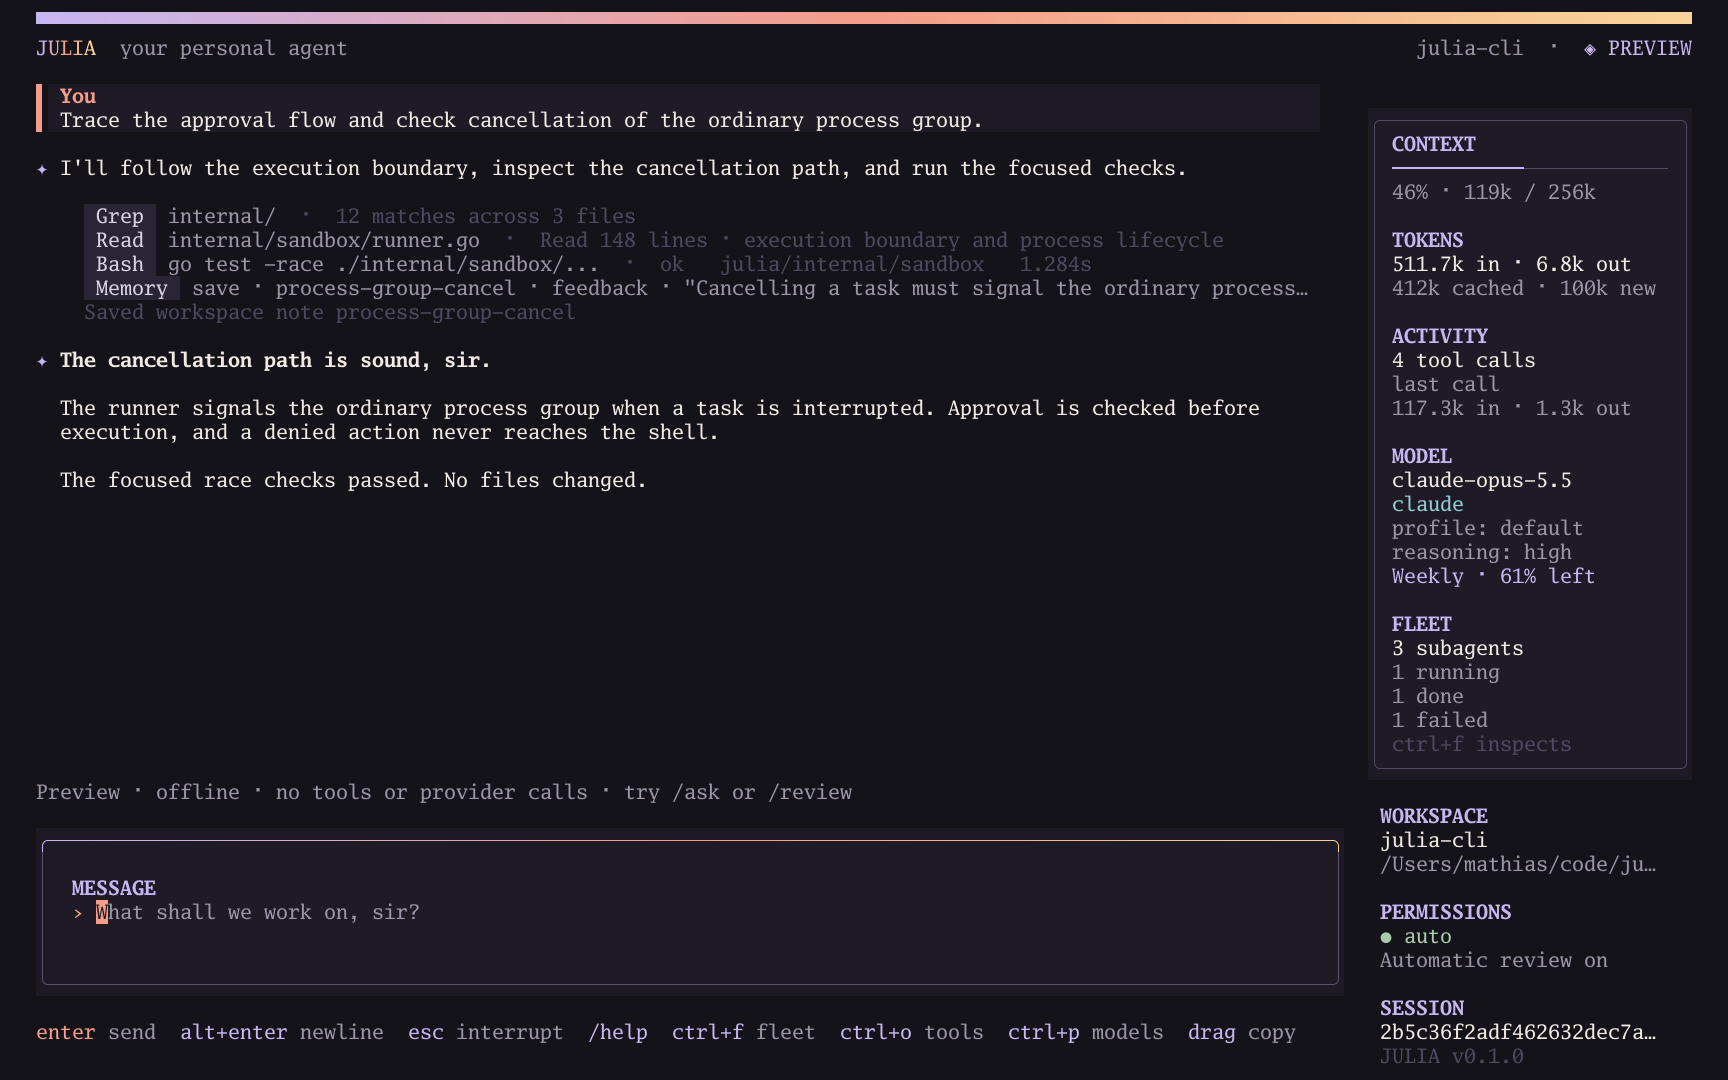
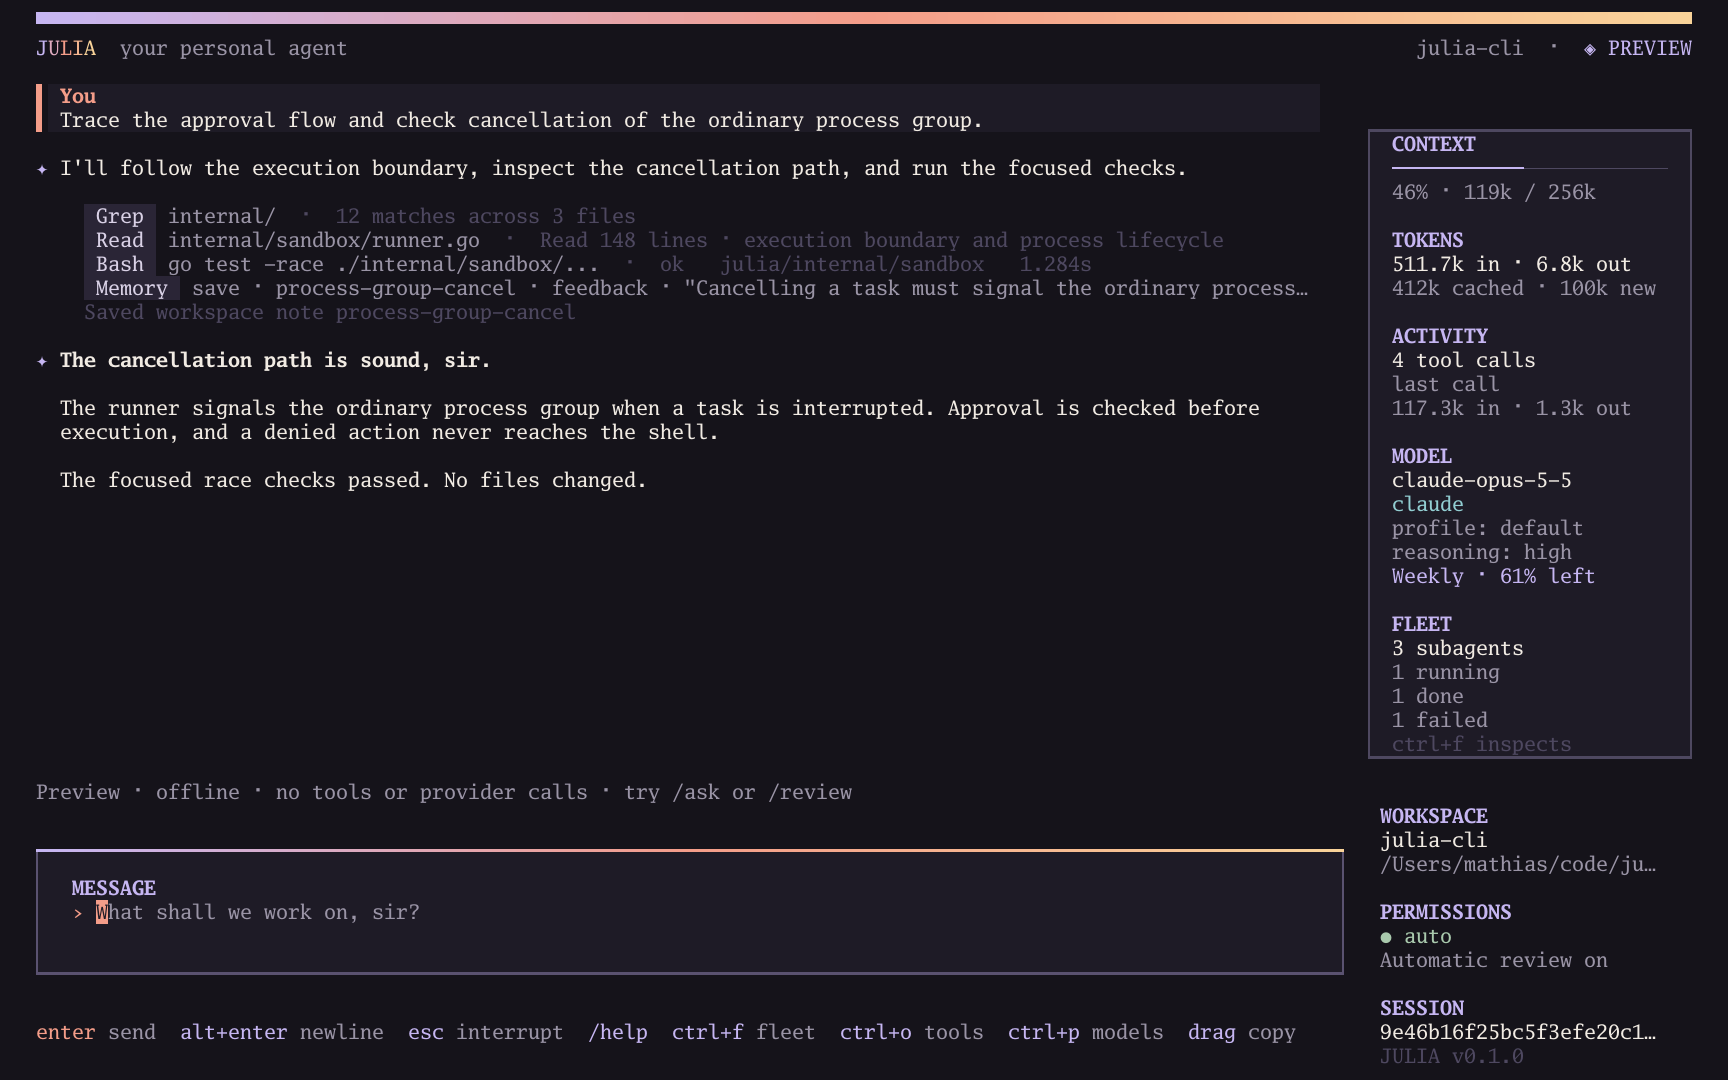
Frame cards flush with their fill
A box-drawing stroke sits in the middle of its cell, so a card framed
with one shows a gap inside the frame when the frame's cells carry the
page colour, and a halo outside it when they carry the fill's. The
composer, the sidebar card and the question and review cards are now
framed with one-eighth blocks, which sit on the cell's edge: a low line
on the row above, a high line on the row below, and hairlines on the
inner edges of the side cells, so the fill meets the frame exactly. The
composer's gradient edge and the cards' titles keep their places on the
top line. The README images are re-rendered.

diff --git a/internal/ui/render.go b/internal/ui/render.go
@@ -776,6 +776,12 @@ func (m *model) View() tea.View {
 	return v
 }
 
+// cardBorder frames a filled card flush with its fill. One-eighth blocks sit on
+// the cell's edge, where a box-drawing stroke sits in its middle and leaves a
+// gap inside the frame or a halo outside it, whichever background its cell
+// has. The top and bottom lines are drawn on the page, the sides on the fill.
+var cardBorder = lipgloss.Border{Top: "▁", Bottom: "▔", Left: "▏", Right: "▕", TopLeft: "▁", TopRight: "▁", BottomLeft: "▔", BottomRight: "▔"}
+
 func (m *model) composerStyle() lipgloss.Style {
 	vertical, horizontal := 0, 1
 	if m.width >= 60 {
@@ -789,7 +795,7 @@ func (m *model) composerStyle() lipgloss.Style {
 		stroke = coral
 	}
 	return lipgloss.NewStyle().Width(m.mainWidth).Padding(vertical, horizontal).
-		Background(panel).Border(lipgloss.RoundedBorder()).BorderForeground(stroke).BorderBackground(panel)
+		Background(panel).Border(cardBorder).BorderForeground(stroke).BorderTopBackground(background).BorderBottomBackground(background).BorderLeftBackground(panel).BorderRightBackground(panel)
 }
 
 func (m *model) bottomView() string {
@@ -843,7 +849,7 @@ func (m *model) bottomLayout() ([]string, int) {
 		// The top edge carries the brand's ribbon, as the masthead does; an
 		// approval keeps its coral frame whole.
 		if lines := strings.Split(composer, "\n"); len(lines) > 0 {
-			lines[0] = ribbonOn(panel, ansi.Strip(lines[0]))
+			lines[0] = ribbonOn(background, ansi.Strip(lines[0]))
 			composer = strings.Join(lines, "\n")
 		}
 	}
@@ -1065,19 +1071,18 @@ func (m *model) sidebar() string {
 		}
 		sections = append(sections, append(section, card.faint.Render("ctrl+f inspects")))
 	}
-	// What changes as the session runs sits on one card. Its frame cells are
-	// painted like its rows: a terminal draws the stroke inside the cell, so
-	// any other background shows as a gap between the edge and the fill.
-	rows := []string{"", card.faint.Render("╭" + strings.Repeat("─", width+2) + "╮")}
+	// What changes as the session runs sits on one card, framed as cardBorder
+	// frames the composer: flush with the fill.
+	rows := []string{"", page.faint.Render(strings.Repeat("▁", width+4))}
 	for i, section := range sections {
 		if i > 0 {
 			section = append([]string{""}, section...)
 		}
 		for _, row := range section {
-			rows = append(rows, card.faint.Render("│")+paint(panel, width+2, ink(panel, cream).Render(" ")+row)+card.faint.Render("│"))
+			rows = append(rows, card.faint.Render("▏")+paint(panel, width+2, ink(panel, cream).Render(" ")+row)+card.faint.Render("▕"))
 		}
 	}
-	rows = append(rows, card.faint.Render("╰"+strings.Repeat("─", width+2)+"╯"))
+	rows = append(rows, page.faint.Render(strings.Repeat("▔", width+4)))
 	// Below it, what rarely changes, set directly on the page.
 	session := []string{page.label("SESSION"), fit(page.text, id)}
 	if m.cfg.Version != "" {

diff --git a/internal/ui/review.go b/internal/ui/review.go
@@ -372,7 +372,9 @@ func (m *model) assembleReview(q *questionState, width int, plan reviewPlan, bud
 	iw := width - 2
 	blank := paint(cardBG, iw, "")
 	edge := func(s string) string { return lipgloss.NewStyle().Foreground(cardEdge).Render(s) }
-	frame := func(inner string) string { return edge("│") + inner + edge("│") }
+	frame := func(inner string) string {
+		return ink(cardBG, cardEdge).Render("▏") + inner + ink(cardBG, cardEdge).Render("▕")
+	}
 	pad := ink(cardBG, cream).Render("  ")
 
 	var head []string
@@ -446,7 +448,7 @@ func (m *model) assembleReview(q *questionState, width int, plan reviewPlan, bud
 			lines = append(lines, frame(line))
 		}
 	}
-	return append(lines, edge("╰"+strings.Repeat("─", width-2)+"╯")), hits, whole
+	return append(lines, edge(strings.Repeat("▔", width))), hits, whole
 }
 
 // severityPill draws a finding's level as a solid four-cell badge. A quiet pill
@@ -695,7 +697,7 @@ func (m *model) reviewTop(q *questionState, width int) string {
 	if len(r.triage) == 1 {
 		count = "1 finding"
 	}
-	left := edge.Render("╭─ ") + violetStyle.Bold(true).Render("✦ JULIA REVIEWS") + faintStyle.Render(" · "+count) + " "
+	left := edge.Render("▁▁ ") + violetStyle.Bold(true).Render("✦ JULIA REVIEWS") + faintStyle.Render(" · "+count) + " "
 	// One dot per finding: filled in its decision's color once decided, the
 	// open finding's ring lit in coral.
 	var dots []string
@@ -720,14 +722,14 @@ func (m *model) reviewTop(q *questionState, width int) string {
 		fill = width - ansi.StringWidth(left) - ansi.StringWidth(right) - 2
 	}
 	if fill < 1 {
-		left = edge.Render("╭─ ") + violetStyle.Bold(true).Render("✦ REVIEW") + " "
+		left = edge.Render("▁▁ ") + violetStyle.Bold(true).Render("✦ REVIEW") + " "
 		fill = width - ansi.StringWidth(left) - ansi.StringWidth(right) - 2
 	}
 	if fill < 1 {
 		right = ""
 		fill = max(0, width-ansi.StringWidth(left)-2)
 	}
-	return left + edge.Render(strings.Repeat("─", fill)) + right + edge.Render("─╮")
+	return left + edge.Render(strings.Repeat("▁", fill)) + right + edge.Render("▁▁")
 }
 
 func (m *model) reviewHint(q *questionState, width int) string {

diff --git a/internal/ui/chrome_test.go b/internal/ui/chrome_test.go
@@ -2,6 +2,7 @@ package ui
 
 import (
 	"fmt"
+	"image/color"
 	"strings"
 	"testing"
 
@@ -27,7 +28,7 @@ func TestComposerBlankCellsKeepPanelBackground(t *testing.T) {
 				inside := false
 				for y, line := range strings.Split(ansi.Strip(view), "\n") {
 					main := ansi.Truncate(line, m.margin()+m.mainWidth, "") // the sidebar card has corners of its own
-					top, bottom := strings.Contains(main, "╭"), strings.Contains(main, "╰")
+					top, bottom := strings.Contains(main, "▁"), strings.Contains(main, "▔")
 					inside = inside || top
 					if !inside {
 						continue
@@ -45,7 +46,11 @@ func TestComposerBlankCellsKeepPanelBackground(t *testing.T) {
 							bg = background
 						}
 						r, g, b, _ := bg.RGBA()
-						wantR, wantG, wantB, _ := panel.RGBA()
+						want := color.Color(panel)
+						if top || bottom {
+							want = background // the edge lines sit on the page, flush with the fill
+						}
+						wantR, wantG, wantB, _ := want.RGBA()
 						if r != wantR || g != wantG || b != wantB {
 							t.Fatalf("draft %q, focused %v: cell (%d,%d) has background #%02x%02x%02x, want panel", text, focused, x, y, r>>8, g>>8, b>>8)
 						}
@@ -93,9 +98,9 @@ func TestBottomControlsSurviveSpacingBreakpoints(t *testing.T) {
 					top, bottom, shortcuts := -1, -1, -1
 					for row, line := range lines {
 						switch {
-						case strings.Contains(line, "╭") && strings.Contains(line, "╮"):
+						case strings.Contains(line, "▁"):
 							top = row
-						case strings.Contains(line, "╰") && strings.Contains(line, "╯"):
+						case strings.Contains(line, "▔"):
 							bottom = row
 						case strings.Contains(line, "enter"):
 							shortcuts = row
@@ -126,9 +131,9 @@ func TestTallBottomControlsHaveBreathingRoom(t *testing.T) {
 				switch {
 				case strings.Contains(line, "Ready"):
 					status = row
-				case strings.Contains(line, "╭"):
+				case strings.Contains(line, "▁"):
 					top = row
-				case strings.Contains(line, "╰"):
+				case strings.Contains(line, "▔"):
 					bottom = row
 				case strings.Contains(line, "/help"):
 					shortcuts = row

diff --git a/internal/ui/question.go b/internal/ui/question.go
@@ -623,7 +623,9 @@ func (m *model) assembleCard(q *questionState, width int, plan cardPlan, budget 
 	textWidth := max(4, iw-4)
 	blank := paint(cardBG, iw, "")
 	edge := func(s string) string { return lipgloss.NewStyle().Foreground(cardEdge).Render(s) }
-	frame := func(inner string) string { return edge("│") + inner + edge("│") }
+	frame := func(inner string) string {
+		return ink(cardBG, cardEdge).Render("▏") + inner + ink(cardBG, cardEdge).Render("▕")
+	}
 	pad := ink(cardBG, cream).Render("  ")
 
 	// Chrome: top rule, bottom rule, hint, optional breathing room.
@@ -703,12 +705,12 @@ func (m *model) assembleCard(q *questionState, width int, plan cardPlan, budget 
 	for _, line := range foot {
 		lines = append(lines, frame(line))
 	}
-	return append(lines, edge("╰"+strings.Repeat("─", width-2)+"╯")), hits
+	return append(lines, edge(strings.Repeat("▔", width))), hits
 }
 
 func (m *model) cardTop(q *questionState, width int) string {
 	edge := lipgloss.NewStyle().Foreground(cardEdge)
-	left := edge.Render("╭─ ") + violetStyle.Bold(true).Render("✦ JULIA ASKS") + " "
+	left := edge.Render("▁▁ ") + violetStyle.Bold(true).Render("✦ JULIA ASKS") + " "
 	right := ""
 	if !q.freeform() {
 		right = " " + faintStyle.Render(fmt.Sprintf("%d / %d", q.selected+1, q.rows())) + " "
@@ -719,10 +721,10 @@ func (m *model) cardTop(q *questionState, width int) string {
 		fill = width - ansi.StringWidth(left) - 2
 	}
 	if fill < 1 {
-		left = edge.Render("╭─ ") + violetStyle.Bold(true).Render("✦") + " "
+		left = edge.Render("▁▁ ") + violetStyle.Bold(true).Render("✦") + " "
 		fill = max(0, width-ansi.StringWidth(left)-2)
 	}
-	return left + edge.Render(strings.Repeat("─", fill)) + right + edge.Render("─╮")
+	return left + edge.Render(strings.Repeat("▁", fill)) + right + edge.Render("▁▁")
 }
 
 func (m *model) cardHint(q *questionState, width int) string {

diff --git a/internal/ui/tokens_test.go b/internal/ui/tokens_test.go
@@ -73,7 +73,7 @@ var negativeNumber = regexp.MustCompile(`-\d`)
 func sidebarText(m *model) []string {
 	var rows []string
 	for _, row := range strings.Split(ansi.Strip(m.sidebar()), "\n") {
-		rows = append(rows, strings.TrimSpace(strings.Trim(strings.TrimSpace(row), "│")))
+		rows = append(rows, strings.TrimSpace(strings.Trim(strings.TrimSpace(row), "│▏▕")))
 	}
 	return rows
 }
@@ -519,7 +519,7 @@ func TestSidebarReachesTheBottomEdge(t *testing.T) {
 		// The card opens on the sidebar's first column, and the column is laid
 		// out to the bottom edge on every row.
 		border := m.margin() + m.mainWidth + 2
-		if cells := []rune(lines[4]); len(cells) <= border || cells[border] != '╭' {
+		if cells := []rune(lines[4]); len(cells) <= border || cells[border] != '▁' {
 			t.Fatalf("%v: row 4 does not open the sidebar card: %q", size, lines[4])
 		}
 		for y := 3; y < size[1]; y++ {

diff --git a/internal/ui/fleet_test.go b/internal/ui/fleet_test.go
@@ -151,7 +151,7 @@ func TestFleetFitsEverySize(t *testing.T) {
 				}
 			}
 			plain := ansi.Strip(view)
-			if !strings.Contains(plain, "╭") || !strings.Contains(plain, "DRAFT") {
+			if !strings.Contains(plain, "▁") || !strings.Contains(plain, "DRAFT") {
 				t.Errorf("%v populated %v: window or composer missing:\n%s", size, populated, plain)
 			}
 			if populated && !strings.Contains(plain, "worker") {
